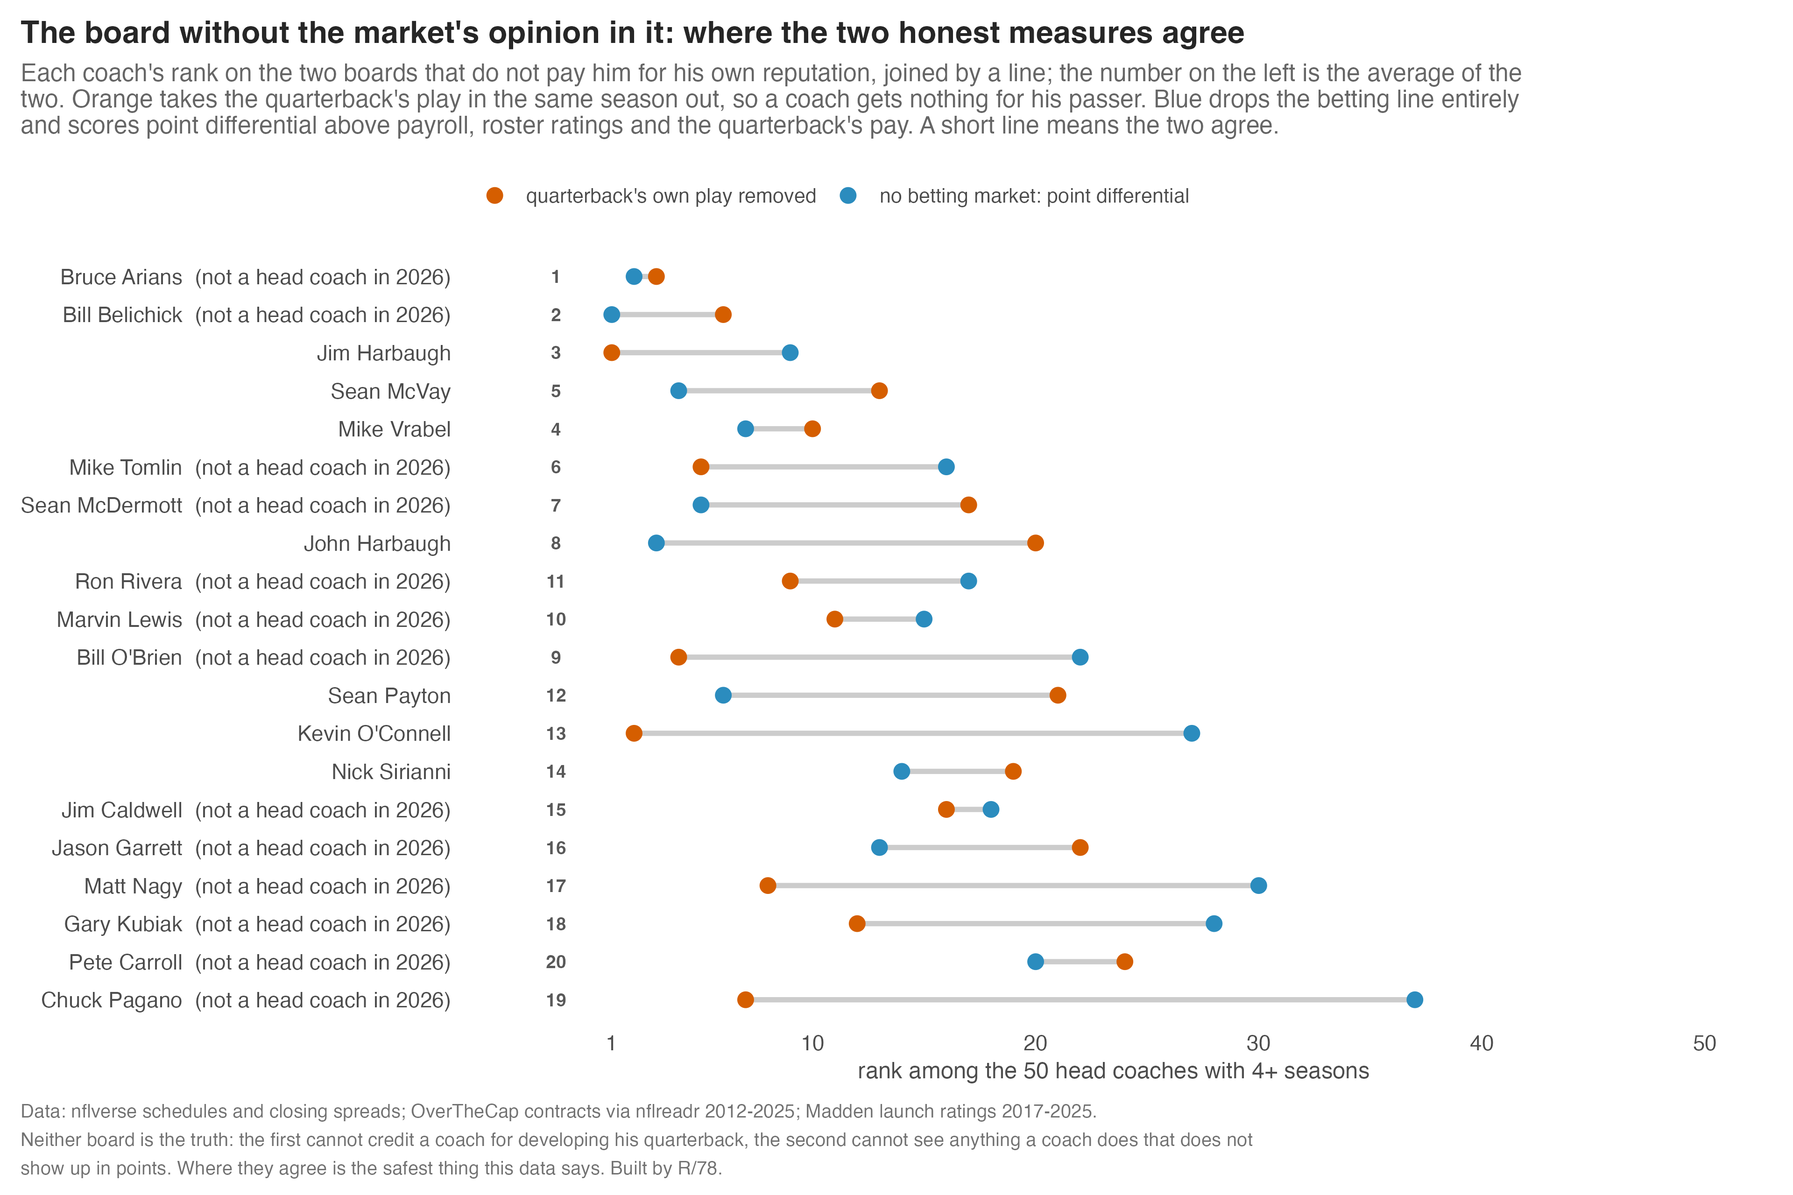
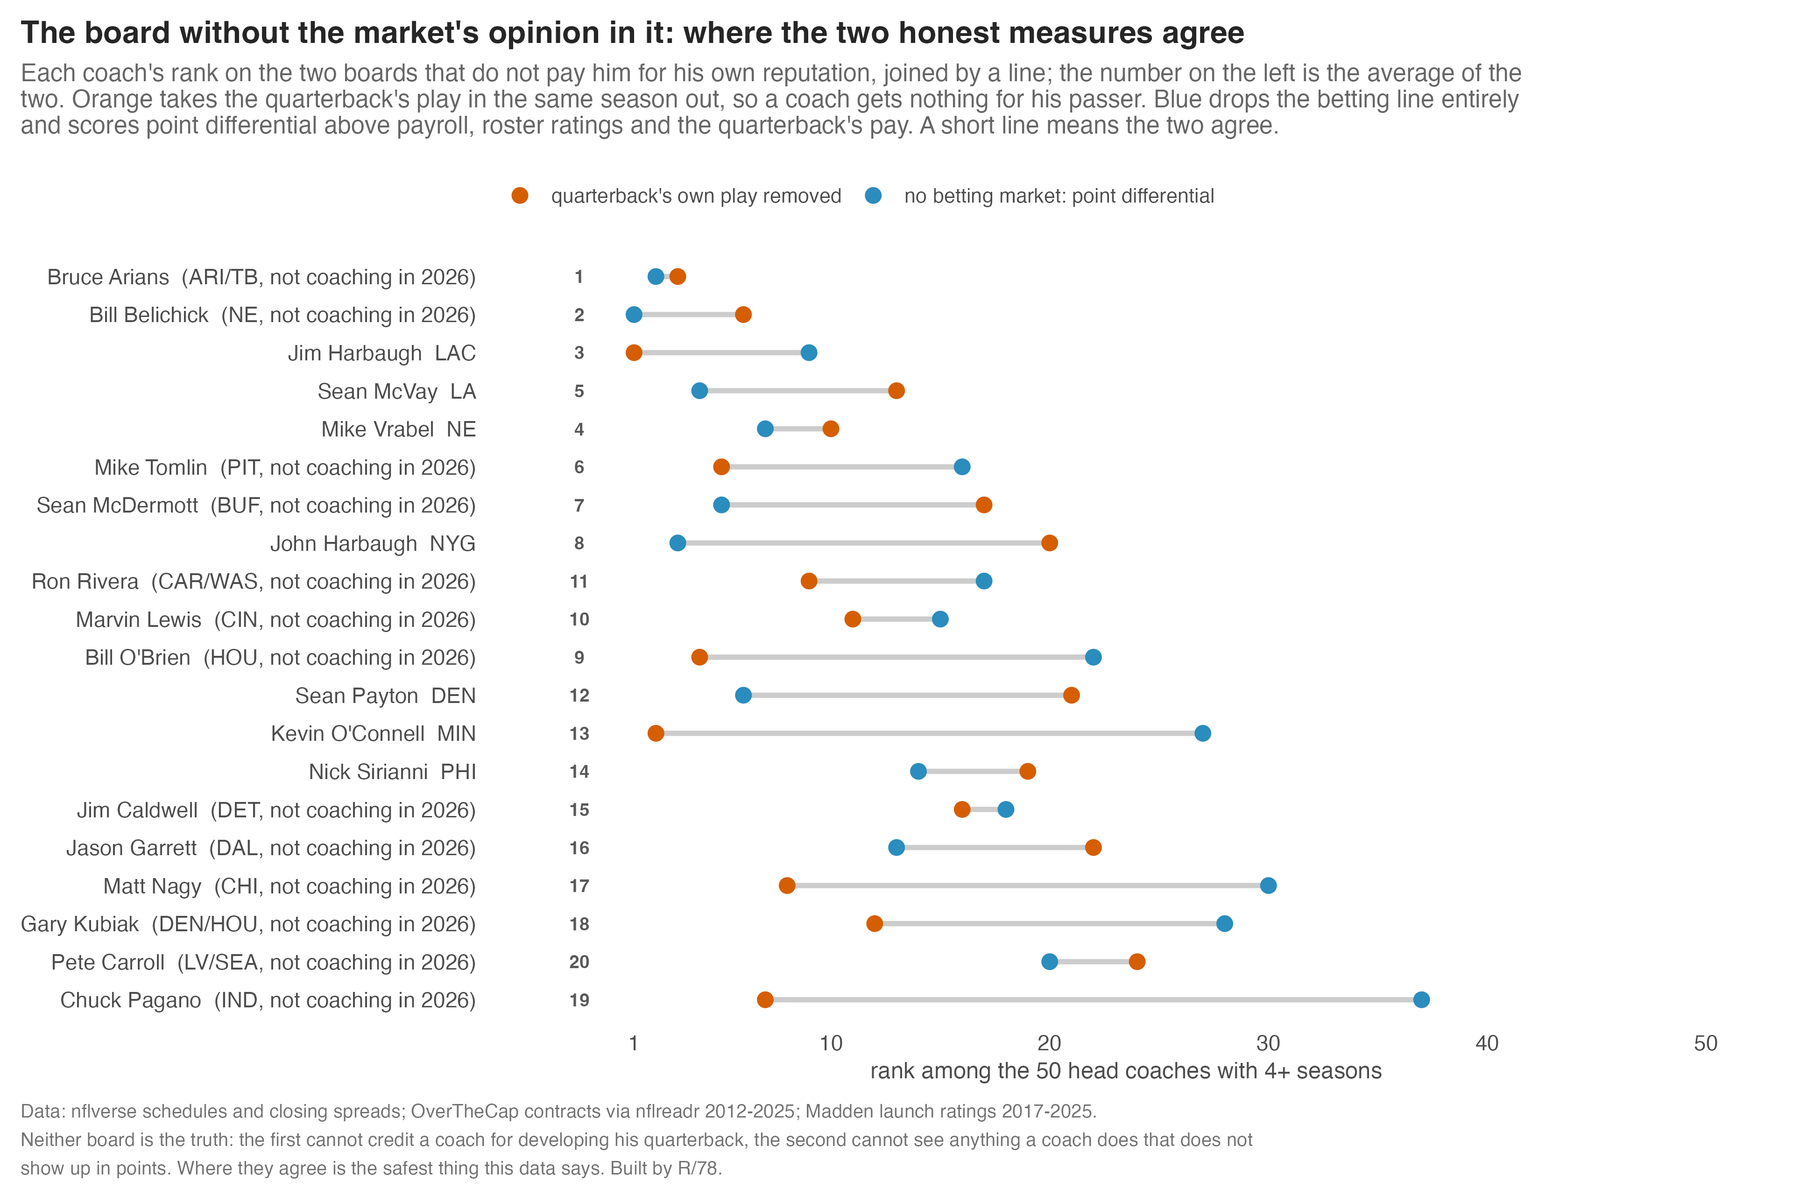
Add teams to the report card and consensus board; note that Madden ratings are launch-only

diff --git a/docs/war.html b/docs/war.html
@@ -120,37 +120,37 @@
     <h2 class="center">The 2026 head coaches, graded</h2>
     <p class="big">Seven lines, a letter each, a GPA out of 4.0. Graded against every coach of the era, not just the ones still working, so an A means the same thing every year. Click a header to sort.</p>
     <div style="overflow-x:auto"><table class="card" id="rcard">
-      <thead><tr><th>#</th><th>Coach</th><th>Class</th><th>4th downs</th><th>Two-point</th><th>Penalties</th><th>Offense</th><th>Defense</th><th>Beats spread</th><th>Results</th><th>GPA</th><th>Tier</th></tr></thead>
+      <thead><tr><th>#</th><th>Coach</th><th>Team</th><th>Class</th><th>4th downs</th><th>Two-point</th><th>Penalties</th><th>Offense</th><th>Defense</th><th>Beats spread</th><th>Results</th><th>GPA</th><th>Tier</th></tr></thead>
       <tbody>
-<tr><td>1</td><td class="name">Mike Macdonald</td><td>Freshman<span class="dim"> (2)</span></td><td class="g gB">B</td><td class="inc">Inc</td><td class="g gC">C</td><td class="inc">Inc</td><td class="inc">Inc</td><td class="g gA">A</td><td class="g gA">A</td><td data-v="3.250"><b>3.25</b></td><td class="tier thonor">Honor roll</td></tr>
-<tr><td>2</td><td class="name">Nick Sirianni</td><td>Upperclassman<span class="dim"> (5)</span></td><td class="g gA">A</td><td class="inc">Inc</td><td class="g gC">C</td><td class="g gA">A</td><td class="g gB">B</td><td class="g gA">A</td><td class="g gC">C</td><td data-v="3.167"><b>3.17</b></td><td class="tier thonor">Honor roll</td></tr>
-<tr><td>3</td><td class="name">John Harbaugh</td><td>Upperclassman<span class="dim"> (14)</span></td><td class="g gA">A</td><td class="g gC">C</td><td class="g gD">D</td><td class="g gA">A</td><td class="g gA">A</td><td class="g gB">B</td><td class="g gA">A</td><td data-v="3.143"><b>3.14</b></td><td class="tier thonor">Honor roll</td></tr>
-<tr><td>4</td><td class="name">Sean McVay</td><td>Upperclassman<span class="dim"> (9)</span></td><td class="g gF">F</td><td class="g gC">C</td><td class="g gA">A</td><td class="g gB">B</td><td class="g gA">A</td><td class="g gA">A</td><td class="g gA">A</td><td data-v="3.000"><b>3.00</b></td><td class="tier thonor">Honor roll</td></tr>
-<tr><td>5</td><td class="name">Dan Campbell</td><td>Upperclassman<span class="dim"> (5)</span></td><td class="g gB">B</td><td class="inc">Inc</td><td class="g gA">A</td><td class="g gB">B</td><td class="g gF">F</td><td class="g gA">A</td><td class="g gB">B</td><td data-v="2.833"><b>2.83</b></td><td class="tier thonor">Honor roll</td></tr>
-<tr><td>6</td><td class="name">Shane Steichen</td><td>Sophomore<span class="dim"> (3)</span></td><td class="g gC">C</td><td class="inc">Inc</td><td class="g gB">B</td><td class="g gB">B</td><td class="g gB">B</td><td class="g gB">B</td><td class="g gB">B</td><td data-v="2.833"><b>2.83</b></td><td class="tier thonor">Honor roll</td></tr>
-<tr><td>7</td><td class="name">Jim Harbaugh</td><td>Upperclassman<span class="dim"> (5)</span></td><td class="g gF">F</td><td class="inc">Inc</td><td class="g gB">B</td><td class="inc">Inc</td><td class="inc">Inc</td><td class="g gA">A</td><td class="g gA">A</td><td data-v="2.750"><b>2.75</b></td><td class="tier thonor">Honor roll</td></tr>
-<tr><td>8</td><td class="name">Andy Reid</td><td>Upperclassman<span class="dim"> (14)</span></td><td class="g gD">D</td><td class="g gC">C</td><td class="g gA">A</td><td class="g gA">A</td><td class="g gC">C</td><td class="g gA">A</td><td class="g gC">C</td><td data-v="2.714"><b>2.71</b></td><td class="tier thonor">Honor roll</td></tr>
-<tr><td>9</td><td class="name">Mike McCarthy</td><td>Upperclassman<span class="dim"> (12)</span></td><td class="g gB">B</td><td class="g gC">C</td><td class="g gC">C</td><td class="g gB">B</td><td class="g gC">C</td><td class="g gB">B</td><td class="g gA">A</td><td data-v="2.714"><b>2.71</b></td><td class="tier thonor">Honor roll</td></tr>
-<tr><td>10</td><td class="name">Sean Payton</td><td>Upperclassman<span class="dim"> (12)</span></td><td class="g gF">F</td><td class="g gC">C</td><td class="g gB">B</td><td class="g gA">A</td><td class="g gB">B</td><td class="g gA">A</td><td class="g gB">B</td><td data-v="2.714"><b>2.71</b></td><td class="tier thonor">Honor roll</td></tr>
-<tr><td>11</td><td class="name">Kyle Shanahan</td><td>Upperclassman<span class="dim"> (9)</span></td><td class="g gB">B</td><td class="g gC">C</td><td class="g gB">B</td><td class="g gA">A</td><td class="g gB">B</td><td class="g gC">C</td><td class="g gD">D</td><td data-v="2.571"><b>2.57</b></td><td class="tier tpassing">Passing</td></tr>
-<tr><td>12</td><td class="name">Matt LaFleur</td><td>Upperclassman<span class="dim"> (7)</span></td><td class="g gA">A</td><td class="g gC">C</td><td class="g gC">C</td><td class="g gA">A</td><td class="g gD">D</td><td class="g gA">A</td><td class="g gD">D</td><td data-v="2.571"><b>2.57</b></td><td class="tier tpassing">Passing</td></tr>
-<tr><td>13</td><td class="name">Mike Vrabel</td><td>Upperclassman<span class="dim"> (7)</span></td><td class="g gB">B</td><td class="g gC">C</td><td class="g gD">D</td><td class="g gB">B</td><td class="g gC">C</td><td class="g gA">A</td><td class="g gC">C</td><td data-v="2.429"><b>2.43</b></td><td class="tier tpassing">Passing</td></tr>
-<tr><td>14</td><td class="name">DeMeco Ryans</td><td>Sophomore<span class="dim"> (3)</span></td><td class="g gF">F</td><td class="inc">Inc</td><td class="g gC">C</td><td class="g gF">F</td><td class="g gA">A</td><td class="g gA">A</td><td class="g gA">A</td><td data-v="2.333"><b>2.33</b></td><td class="tier tpassing">Passing</td></tr>
-<tr><td>15</td><td class="name">Dave Canales</td><td>Freshman<span class="dim"> (2)</span></td><td class="g gA">A</td><td class="inc">Inc</td><td class="g gD">D</td><td class="inc">Inc</td><td class="inc">Inc</td><td class="g gB">B</td><td class="g gF">F</td><td data-v="2.000"><b>2.00</b></td><td class="tier tpassing">Passing</td></tr>
-<tr><td>16</td><td class="name">Kevin O'Connell</td><td>Sophomore<span class="dim"> (4)</span></td><td class="g gF">F</td><td class="inc">Inc</td><td class="g gF">F</td><td class="g gF">F</td><td class="g gA">A</td><td class="g gA">A</td><td class="g gA">A</td><td data-v="2.000"><b>2.00</b></td><td class="tier tpassing">Passing</td></tr>
-<tr><td>17</td><td class="name">Todd Bowles</td><td>Upperclassman<span class="dim"> (8)</span></td><td class="g gD">D</td><td class="g gC">C</td><td class="g gB">B</td><td class="g gB">B</td><td class="g gB">B</td><td class="g gD">D</td><td class="g gD">D</td><td data-v="2.000"><b>2.00</b></td><td class="tier tpassing">Passing</td></tr>
-<tr><td>18</td><td class="name">Kevin Stefanski</td><td>Upperclassman<span class="dim"> (6)</span></td><td class="g gB">B</td><td class="g gC">C</td><td class="g gF">F</td><td class="g gF">F</td><td class="g gC">C</td><td class="g gC">C</td><td class="g gB">B</td><td data-v="1.714"><b>1.71</b></td><td class="tier tprobation">Probation</td></tr>
-<tr><td>19</td><td class="name">Dan Quinn</td><td>Upperclassman<span class="dim"> (7)</span></td><td class="g gC">C</td><td class="g gC">C</td><td class="g gD">D</td><td class="g gB">B</td><td class="g gF">F</td><td class="g gB">B</td><td class="g gF">F</td><td data-v="1.571"><b>1.57</b></td><td class="tier tprobation">Probation</td></tr>
-<tr><td>20</td><td class="name">Robert Saleh</td><td>Sophomore<span class="dim"> (4)</span></td><td class="g gB">B</td><td class="g gC">C</td><td class="g gF">F</td><td class="g gF">F</td><td class="g gC">C</td><td class="g gF">F</td><td class="g gB">B</td><td data-v="1.429"><b>1.43</b></td><td class="tier tprobation">Probation</td></tr>
-<tr><td>21</td><td class="name">Zac Taylor</td><td>Upperclassman<span class="dim"> (7)</span></td><td class="g gC">C</td><td class="g gC">C</td><td class="g gB">B</td><td class="g gC">C</td><td class="g gF">F</td><td class="g gD">D</td><td class="g gF">F</td><td data-v="1.429"><b>1.43</b></td><td class="tier tprobation">Probation</td></tr>
-<tr><td></td><td class="name">Aaron Glenn</td><td>Freshman<span class="dim"> (1)</span></td><td class="inc">Inc</td><td class="inc">Inc</td><td class="inc">Inc</td><td class="inc">Inc</td><td class="inc">Inc</td><td class="g gD">D</td><td class="g gD">D</td><td data-v="-1">Inc</td><td class="tier tincomplete">Incomplete</td></tr>
-<tr><td></td><td class="name">Ben Johnson</td><td>Freshman<span class="dim"> (1)</span></td><td class="inc">Inc</td><td class="inc">Inc</td><td class="inc">Inc</td><td class="inc">Inc</td><td class="inc">Inc</td><td class="g gA">A</td><td class="g gD">D</td><td data-v="-1">Inc</td><td class="tier tincomplete">Incomplete</td></tr>
-<tr><td></td><td class="name">Brian Schottenheimer</td><td>Freshman<span class="dim"> (1)</span></td><td class="inc">Inc</td><td class="inc">Inc</td><td class="inc">Inc</td><td class="inc">Inc</td><td class="inc">Inc</td><td class="g gC">C</td><td class="g gF">F</td><td data-v="-1">Inc</td><td class="tier tincomplete">Incomplete</td></tr>
-<tr><td></td><td class="name">Kellen Moore</td><td>Freshman<span class="dim"> (1)</span></td><td class="inc">Inc</td><td class="inc">Inc</td><td class="inc">Inc</td><td class="inc">Inc</td><td class="inc">Inc</td><td class="g gC">C</td><td class="g gC">C</td><td data-v="-1">Inc</td><td class="tier tincomplete">Incomplete</td></tr>
-<tr><td></td><td class="name">Liam Coen</td><td>Freshman<span class="dim"> (1)</span></td><td class="inc">Inc</td><td class="inc">Inc</td><td class="inc">Inc</td><td class="inc">Inc</td><td class="inc">Inc</td><td class="g gA">A</td><td class="g gA">A</td><td data-v="-1">Inc</td><td class="tier tincomplete">Incomplete</td></tr>
-      </tbody>
+<tr><td>1</td><td class="name">Mike Macdonald</td><td><b>SEA</b></td><td>Freshman<span class="dim"> (2)</span></td><td class="g gB">B</td><td class="inc">Inc</td><td class="g gC">C</td><td class="inc">Inc</td><td class="inc">Inc</td><td class="g gA">A</td><td class="g gA">A</td><td data-v="3.250"><b>3.25</b></td><td class="tier thonor">Honor roll</td></tr>
+<tr><td>2</td><td class="name">Nick Sirianni</td><td><b>PHI</b></td><td>Upperclassman<span class="dim"> (5)</span></td><td class="g gA">A</td><td class="inc">Inc</td><td class="g gC">C</td><td class="g gA">A</td><td class="g gB">B</td><td class="g gA">A</td><td class="g gC">C</td><td data-v="3.167"><b>3.17</b></td><td class="tier thonor">Honor roll</td></tr>
+<tr><td>3</td><td class="name">John Harbaugh</td><td><b>NYG</b></td><td>Upperclassman<span class="dim"> (14)</span></td><td class="g gA">A</td><td class="g gC">C</td><td class="g gD">D</td><td class="g gA">A</td><td class="g gA">A</td><td class="g gB">B</td><td class="g gA">A</td><td data-v="3.143"><b>3.14</b></td><td class="tier thonor">Honor roll</td></tr>
+<tr><td>4</td><td class="name">Sean McVay</td><td><b>LA</b></td><td>Upperclassman<span class="dim"> (9)</span></td><td class="g gF">F</td><td class="g gC">C</td><td class="g gA">A</td><td class="g gB">B</td><td class="g gA">A</td><td class="g gA">A</td><td class="g gA">A</td><td data-v="3.000"><b>3.00</b></td><td class="tier thonor">Honor roll</td></tr>
+<tr><td>5</td><td class="name">Dan Campbell</td><td><b>DET</b></td><td>Upperclassman<span class="dim"> (5)</span></td><td class="g gB">B</td><td class="inc">Inc</td><td class="g gA">A</td><td class="g gB">B</td><td class="g gF">F</td><td class="g gA">A</td><td class="g gB">B</td><td data-v="2.833"><b>2.83</b></td><td class="tier thonor">Honor roll</td></tr>
+<tr><td>6</td><td class="name">Shane Steichen</td><td><b>IND</b></td><td>Sophomore<span class="dim"> (3)</span></td><td class="g gC">C</td><td class="inc">Inc</td><td class="g gB">B</td><td class="g gB">B</td><td class="g gB">B</td><td class="g gB">B</td><td class="g gB">B</td><td data-v="2.833"><b>2.83</b></td><td class="tier thonor">Honor roll</td></tr>
+<tr><td>7</td><td class="name">Jim Harbaugh</td><td><b>LAC</b></td><td>Upperclassman<span class="dim"> (5)</span></td><td class="g gF">F</td><td class="inc">Inc</td><td class="g gB">B</td><td class="inc">Inc</td><td class="inc">Inc</td><td class="g gA">A</td><td class="g gA">A</td><td data-v="2.750"><b>2.75</b></td><td class="tier thonor">Honor roll</td></tr>
+<tr><td>8</td><td class="name">Andy Reid</td><td><b>KC</b></td><td>Upperclassman<span class="dim"> (14)</span></td><td class="g gD">D</td><td class="g gC">C</td><td class="g gA">A</td><td class="g gA">A</td><td class="g gC">C</td><td class="g gA">A</td><td class="g gC">C</td><td data-v="2.714"><b>2.71</b></td><td class="tier thonor">Honor roll</td></tr>
+<tr><td>9</td><td class="name">Mike McCarthy</td><td><b>PIT</b></td><td>Upperclassman<span class="dim"> (12)</span></td><td class="g gB">B</td><td class="g gC">C</td><td class="g gC">C</td><td class="g gB">B</td><td class="g gC">C</td><td class="g gB">B</td><td class="g gA">A</td><td data-v="2.714"><b>2.71</b></td><td class="tier thonor">Honor roll</td></tr>
+<tr><td>10</td><td class="name">Sean Payton</td><td><b>DEN</b></td><td>Upperclassman<span class="dim"> (12)</span></td><td class="g gF">F</td><td class="g gC">C</td><td class="g gB">B</td><td class="g gA">A</td><td class="g gB">B</td><td class="g gA">A</td><td class="g gB">B</td><td data-v="2.714"><b>2.71</b></td><td class="tier thonor">Honor roll</td></tr>
+<tr><td>11</td><td class="name">Kyle Shanahan</td><td><b>SF</b></td><td>Upperclassman<span class="dim"> (9)</span></td><td class="g gB">B</td><td class="g gC">C</td><td class="g gB">B</td><td class="g gA">A</td><td class="g gB">B</td><td class="g gC">C</td><td class="g gD">D</td><td data-v="2.571"><b>2.57</b></td><td class="tier tpassing">Passing</td></tr>
+<tr><td>12</td><td class="name">Matt LaFleur</td><td><b>GB</b></td><td>Upperclassman<span class="dim"> (7)</span></td><td class="g gA">A</td><td class="g gC">C</td><td class="g gC">C</td><td class="g gA">A</td><td class="g gD">D</td><td class="g gA">A</td><td class="g gD">D</td><td data-v="2.571"><b>2.57</b></td><td class="tier tpassing">Passing</td></tr>
+<tr><td>13</td><td class="name">Mike Vrabel</td><td><b>NE</b></td><td>Upperclassman<span class="dim"> (7)</span></td><td class="g gB">B</td><td class="g gC">C</td><td class="g gD">D</td><td class="g gB">B</td><td class="g gC">C</td><td class="g gA">A</td><td class="g gC">C</td><td data-v="2.429"><b>2.43</b></td><td class="tier tpassing">Passing</td></tr>
+<tr><td>14</td><td class="name">DeMeco Ryans</td><td><b>HOU</b></td><td>Sophomore<span class="dim"> (3)</span></td><td class="g gF">F</td><td class="inc">Inc</td><td class="g gC">C</td><td class="g gF">F</td><td class="g gA">A</td><td class="g gA">A</td><td class="g gA">A</td><td data-v="2.333"><b>2.33</b></td><td class="tier tpassing">Passing</td></tr>
+<tr><td>15</td><td class="name">Dave Canales</td><td><b>CAR</b></td><td>Freshman<span class="dim"> (2)</span></td><td class="g gA">A</td><td class="inc">Inc</td><td class="g gD">D</td><td class="inc">Inc</td><td class="inc">Inc</td><td class="g gB">B</td><td class="g gF">F</td><td data-v="2.000"><b>2.00</b></td><td class="tier tpassing">Passing</td></tr>
+<tr><td>16</td><td class="name">Kevin O'Connell</td><td><b>MIN</b></td><td>Sophomore<span class="dim"> (4)</span></td><td class="g gF">F</td><td class="inc">Inc</td><td class="g gF">F</td><td class="g gF">F</td><td class="g gA">A</td><td class="g gA">A</td><td class="g gA">A</td><td data-v="2.000"><b>2.00</b></td><td class="tier tpassing">Passing</td></tr>
+<tr><td>17</td><td class="name">Todd Bowles</td><td><b>TB</b></td><td>Upperclassman<span class="dim"> (8)</span></td><td class="g gD">D</td><td class="g gC">C</td><td class="g gB">B</td><td class="g gB">B</td><td class="g gB">B</td><td class="g gD">D</td><td class="g gD">D</td><td data-v="2.000"><b>2.00</b></td><td class="tier tpassing">Passing</td></tr>
+<tr><td>18</td><td class="name">Kevin Stefanski</td><td><b>ATL</b></td><td>Upperclassman<span class="dim"> (6)</span></td><td class="g gB">B</td><td class="g gC">C</td><td class="g gF">F</td><td class="g gF">F</td><td class="g gC">C</td><td class="g gC">C</td><td class="g gB">B</td><td data-v="1.714"><b>1.71</b></td><td class="tier tprobation">Probation</td></tr>
+<tr><td>19</td><td class="name">Dan Quinn</td><td><b>WAS</b></td><td>Upperclassman<span class="dim"> (7)</span></td><td class="g gC">C</td><td class="g gC">C</td><td class="g gD">D</td><td class="g gB">B</td><td class="g gF">F</td><td class="g gB">B</td><td class="g gF">F</td><td data-v="1.571"><b>1.57</b></td><td class="tier tprobation">Probation</td></tr>
+<tr><td>20</td><td class="name">Robert Saleh</td><td><b>TEN</b></td><td>Sophomore<span class="dim"> (4)</span></td><td class="g gB">B</td><td class="g gC">C</td><td class="g gF">F</td><td class="g gF">F</td><td class="g gC">C</td><td class="g gF">F</td><td class="g gB">B</td><td data-v="1.429"><b>1.43</b></td><td class="tier tprobation">Probation</td></tr>
+<tr><td>21</td><td class="name">Zac Taylor</td><td><b>CIN</b></td><td>Upperclassman<span class="dim"> (7)</span></td><td class="g gC">C</td><td class="g gC">C</td><td class="g gB">B</td><td class="g gC">C</td><td class="g gF">F</td><td class="g gD">D</td><td class="g gF">F</td><td data-v="1.429"><b>1.43</b></td><td class="tier tprobation">Probation</td></tr>
+<tr><td></td><td class="name">Aaron Glenn</td><td><b>NYJ</b></td><td>Freshman<span class="dim"> (1)</span></td><td class="inc">Inc</td><td class="inc">Inc</td><td class="inc">Inc</td><td class="inc">Inc</td><td class="inc">Inc</td><td class="g gD">D</td><td class="g gD">D</td><td data-v="-1">Inc</td><td class="tier tincomplete">Incomplete</td></tr>
+<tr><td></td><td class="name">Ben Johnson</td><td><b>CHI</b></td><td>Freshman<span class="dim"> (1)</span></td><td class="inc">Inc</td><td class="inc">Inc</td><td class="inc">Inc</td><td class="inc">Inc</td><td class="inc">Inc</td><td class="g gA">A</td><td class="g gD">D</td><td data-v="-1">Inc</td><td class="tier tincomplete">Incomplete</td></tr>
+<tr><td></td><td class="name">Brian Schottenheimer</td><td><b>DAL</b></td><td>Freshman<span class="dim"> (1)</span></td><td class="inc">Inc</td><td class="inc">Inc</td><td class="inc">Inc</td><td class="inc">Inc</td><td class="inc">Inc</td><td class="g gC">C</td><td class="g gF">F</td><td data-v="-1">Inc</td><td class="tier tincomplete">Incomplete</td></tr>
+<tr><td></td><td class="name">Kellen Moore</td><td><b>NO</b></td><td>Freshman<span class="dim"> (1)</span></td><td class="inc">Inc</td><td class="inc">Inc</td><td class="inc">Inc</td><td class="inc">Inc</td><td class="inc">Inc</td><td class="g gC">C</td><td class="g gC">C</td><td data-v="-1">Inc</td><td class="tier tincomplete">Incomplete</td></tr>
+<tr><td></td><td class="name">Liam Coen</td><td><b>JAX</b></td><td>Freshman<span class="dim"> (1)</span></td><td class="inc">Inc</td><td class="inc">Inc</td><td class="inc">Inc</td><td class="inc">Inc</td><td class="inc">Inc</td><td class="g gA">A</td><td class="g gA">A</td><td data-v="-1">Inc</td><td class="tier tincomplete">Incomplete</td></tr>
+</tbody>
     </table></div>
-    <p class="note" style="margin-top:10px"><b>The lines.</b> <b>4th downs</b>: win-probability cost of his fourth-down choices against the league in his own seasons (2018-2025). <b>Two-point</b>: how often he goes for two when the chart says to. <b>Penalties</b>: penalty rate beyond what the situation predicts. <b>Offense</b> and <b>Defense</b>: EPA per play above the talent controls. <b>Beats spread</b>: wins beyond the closing line, shrunk. <b>Results</b>: the market-free WAR below, which is point differential above payroll, roster ratings and the quarterback. A is the top fifth of the era, F the bottom fifth; Inc is a line he has too little of. A GPA needs four lines, so the five coaches in their first season have none yet. Class is seasons as a head coach since 2012: freshman 1-2, sophomore 3-4, upperclassman 5+.</p>
+    <p class="note" style="margin-top:10px"><b>The lines.</b> <b>4th downs</b>: win-probability cost of his fourth-down choices against the league in his own seasons (2018-2025). <b>Two-point</b>: how often he goes for two when the chart says to. <b>Penalties</b>: penalty rate beyond what the situation predicts. <b>Offense</b> and <b>Defense</b>: EPA per play above the talent controls. <b>Beats spread</b>: wins beyond the closing line, shrunk. <b>Results</b>: the market-free WAR below, which is point differential above payroll, roster ratings and the quarterback. Roster ratings are Madden's, and they are launch ratings: EA's public feed only serves the current week, and no archive of in-season ratings exists, so a roster that gets healthy or falls apart mid-season is not visible here. A is the top fifth of the era, F the bottom fifth; Inc is a line he has too little of. A GPA needs four lines, so the five coaches in their first season have none yet. Class is seasons as a head coach since 2012: freshman 1-2, sophomore 3-4, upperclassman 5+.</p>
     <p class="note"><b>Why only active coaches.</b> A fired coach still sets the curve but is off the list. The first version of this card had Sean McDermott on top and Buffalo had already replaced him.</p>
     <figure>
       <img src="figures/report_card_tiers.png" alt="Active head coaches by GPA with tier colours, class-year shapes and the seven letter grades in each label.">
